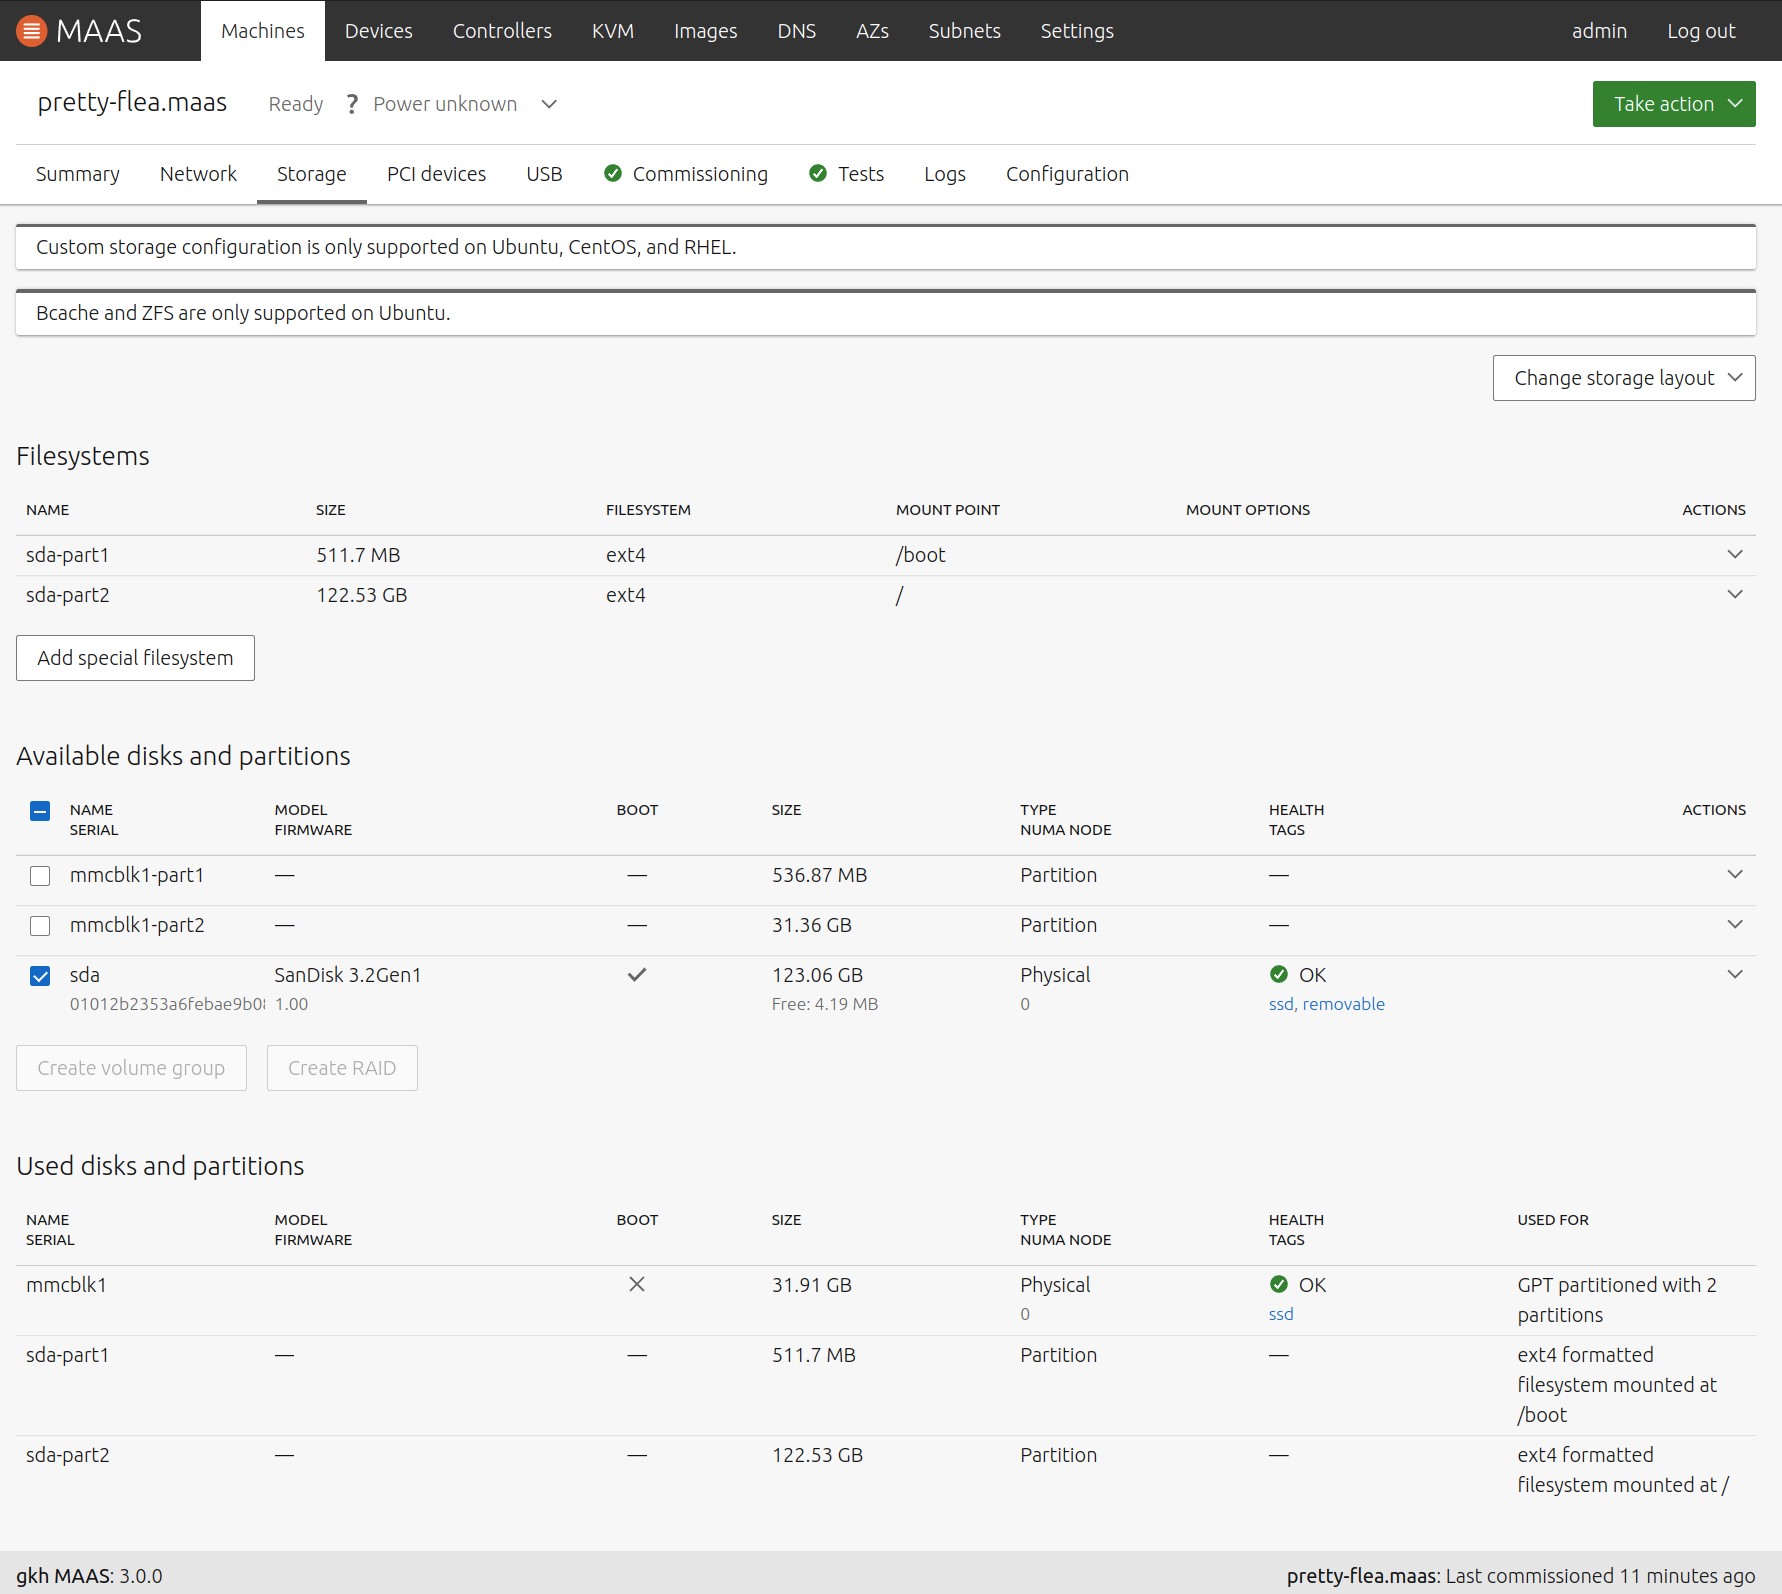
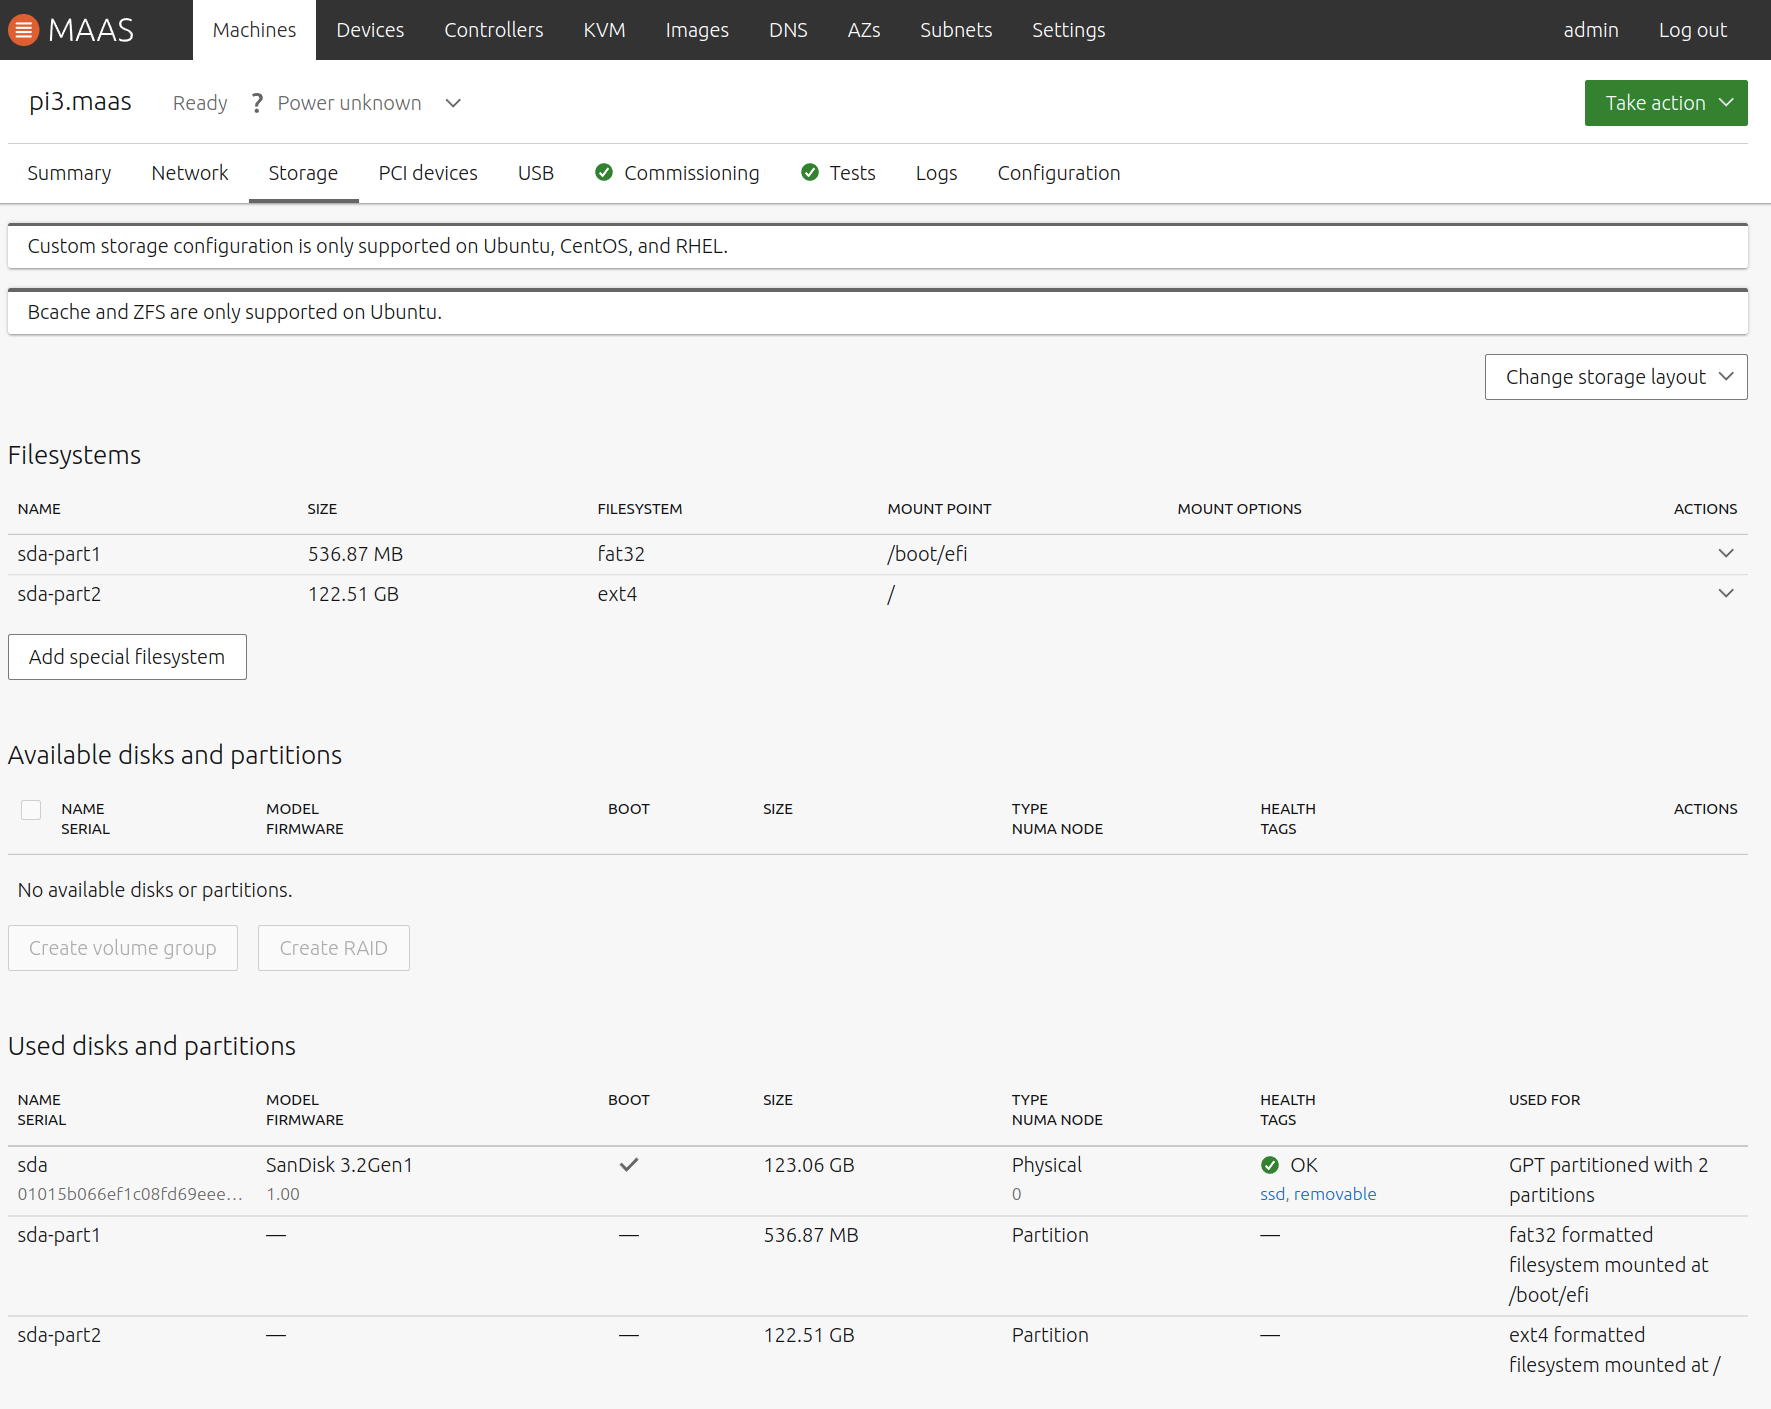
updates to Raspi MAAS deployment

diff --git a/nas/03-maas/RaspiMASS.md b/nas/03-maas/RaspiMASS.md
@@ -1,13 +1,8 @@
-# Commissioning Raspberry Pi 4 with Canonical MAAS
+# Commissioning a Raspberry Pi 4 with Canonical MAAS
 
 These steps were successful in commissioning a Raspberry Pi 4 with 
 4 GB of RAM using Ubuntu LTS 20.04. I used an SD Card for UEFI and 
-a USB3 drive for OS install.
-
-PROBLEM: This only works if the partitions are already configured on the USB
-drive and you select 'retain storage configuration'. If you do not select this
-then the install works perfectly but the sdcard contents are deleted and the 
-PI will not boot. Still investigating a solution ...
+a USB3 drive (32GB thumbnail) for OS install.
 
 # Install MAAS
 First install Canonical's MAAS as per the instructions here:
@@ -25,7 +20,11 @@ kernel version to focal (hwe-20.04)
 
 # Setup the Pi to PXE boot
 
-First create a UEFI SD Card
+First create a UEFI SD Card. If you still have a Pi running raspi OS, 
+you can put the SD Card in it and
+run the script here [uefi.make.sh](uefi.make.sh). If not then use these steps:
+
+
 - Download the latest zip from 
     - https://github.com/pftf/RPi4/releases
 - format an SD card using these instructions
@@ -34,14 +33,15 @@ First create a UEFI SD Card
 - unzip the contents of RPi4_UEFI_Firmware_v1.32.zip (or higher) into
   the root of the SD card.
 
-Alternatively if you still have a Pi running you can put the SD Card in it and
-run the script here [uefi.make.sh](uefi.make.sh)
-
 Now set up UEFI and do a PXE boot  
 - make sure your pi is setup to boot from SD then USB by running raspi-config
   and going to Advanced Options -> Boot Order
-- reboot and hit ESC to go into settings
+ reboot and hit ESC to go into settings
 - Go to DEVICE->RaspberryPi  Configuration-> Advanced and set Limit RAM to 3 GB to Disabled
+- I also went into Boot Options -> Delete Boot Options and removed everything 
+  except PXE boot over IPv4. This guarantees that the PI will always contact MAAS
+  on a reboot (Once the machine is Deployed MAAS will tell it to continue the boot
+  from the USB drive)
 - reboot again
 - You should see PXE boot like this
 
@@ -56,11 +56,18 @@ All being well your Pi Should appear under the 'New' group like 'big-ram' below.
 
 ![alt text](images/new.png)
 
-You can now click on the new machine and see a summary. Then go to the settings Tab an set Power Configuration to Manual. Use the Take Action button to choose the Test command. 
+You can now click on the new machine and see a summary. 
+Go to the machine Configuration Tab an set Power Configuration to Manual. 
+Use the Take Action button to choose the Test command. 
 
 IMPORTANT: Select the tick box 'Allow SSH access and prevent machine powering off'
 
 You will now need to manually power cycle the Pi to kick off this process.
+
+Note that if you are seeing the console output of the machine then you will see
+`reached cloud init target`. When you see this and MAAS UI shows status 'Ready'
+you should power cycle the machine. Clearly this would be smoother if some
+kind of remote power was added to the setup.
 
 You can now watch progress in the Logs tab. When you see the this message,
 It is time to do another power cycle. Eventually you should see the logs say:
@@ -69,18 +76,22 @@ It is time to do another power cycle. Eventually you should see the logs say:
 
 If you move straight to deploying now then MAAS will try to put Ubuntu on 
 The SD Card, it will fail and the Pi won't reboot since UEFI has been overwritten.
-So first go to the Storage tab for your device and perform the following:
+So first go to the Storage tab for your machine. And do the following:
 
-- unmount all partitions on the SD Card
-- create a boot partition of 512MB ext4 on the USB storage device mounted at /boot
-- create a rootfs partition of remaining space ext4 mounted at /
+- Available disks and partitions: remove both partitions of the sdcard
+- Available disks and partitions: remove physical disk of the sdcard 
+- Change Storage Layout: Flat
 
-Your Storage tab should then look similar to this:
+Select 'Change storage layout'
+and choose 'Flat'. Your Storage tab should now look similar to this:
 
 ![alt text](images/partitions.png)
 
-You are now ready to deploy  your Pi. This will install the OS onto its local disk.
+
+You are now ready to deploy  your Pi. This will install the OS onto the
+USB disk.
 Choose Take Action -> Deploy.
+Make sure you select 'Allow SSH access and prevent machine powering off'
 You will need a power cycle to kick off the deployment .
 Continue to watch the logs and you will eventually see:
 
@@ -89,7 +100,7 @@ Continue to watch the logs and you will eventually see:
 You are good to go. Note that you can ssh into the newly deployed machine 
 using:
 
-- ssh ubuntu@>ip-address<
+- ssh ubuntu@machine-name
 
 Assuming your identity is one of you github SSH keys then you should 
 be admitted.
